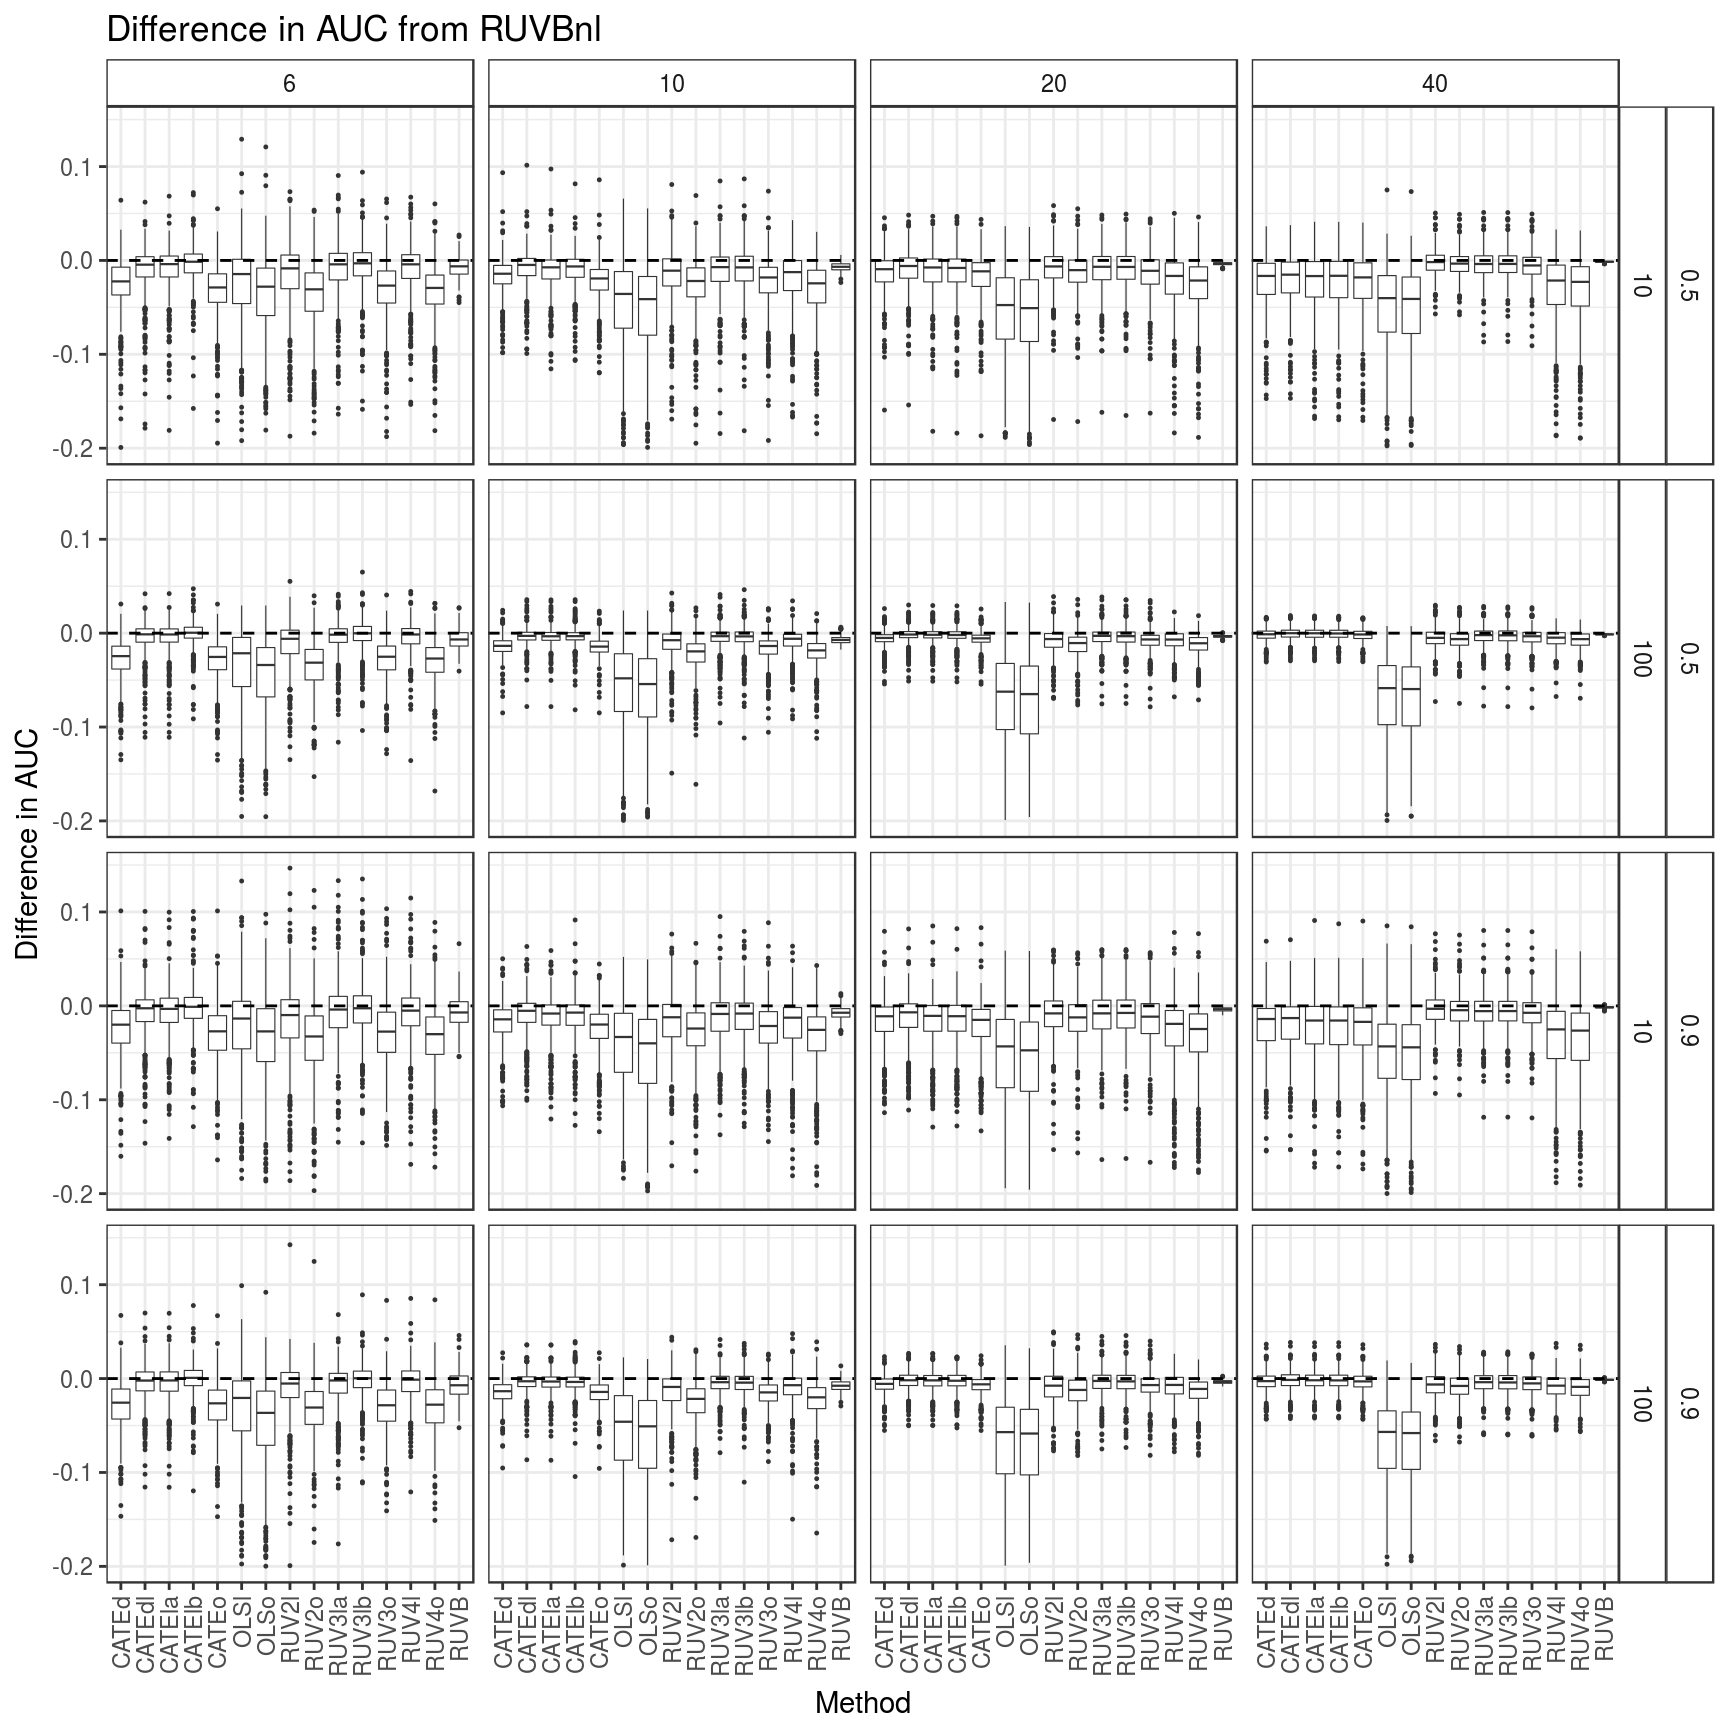
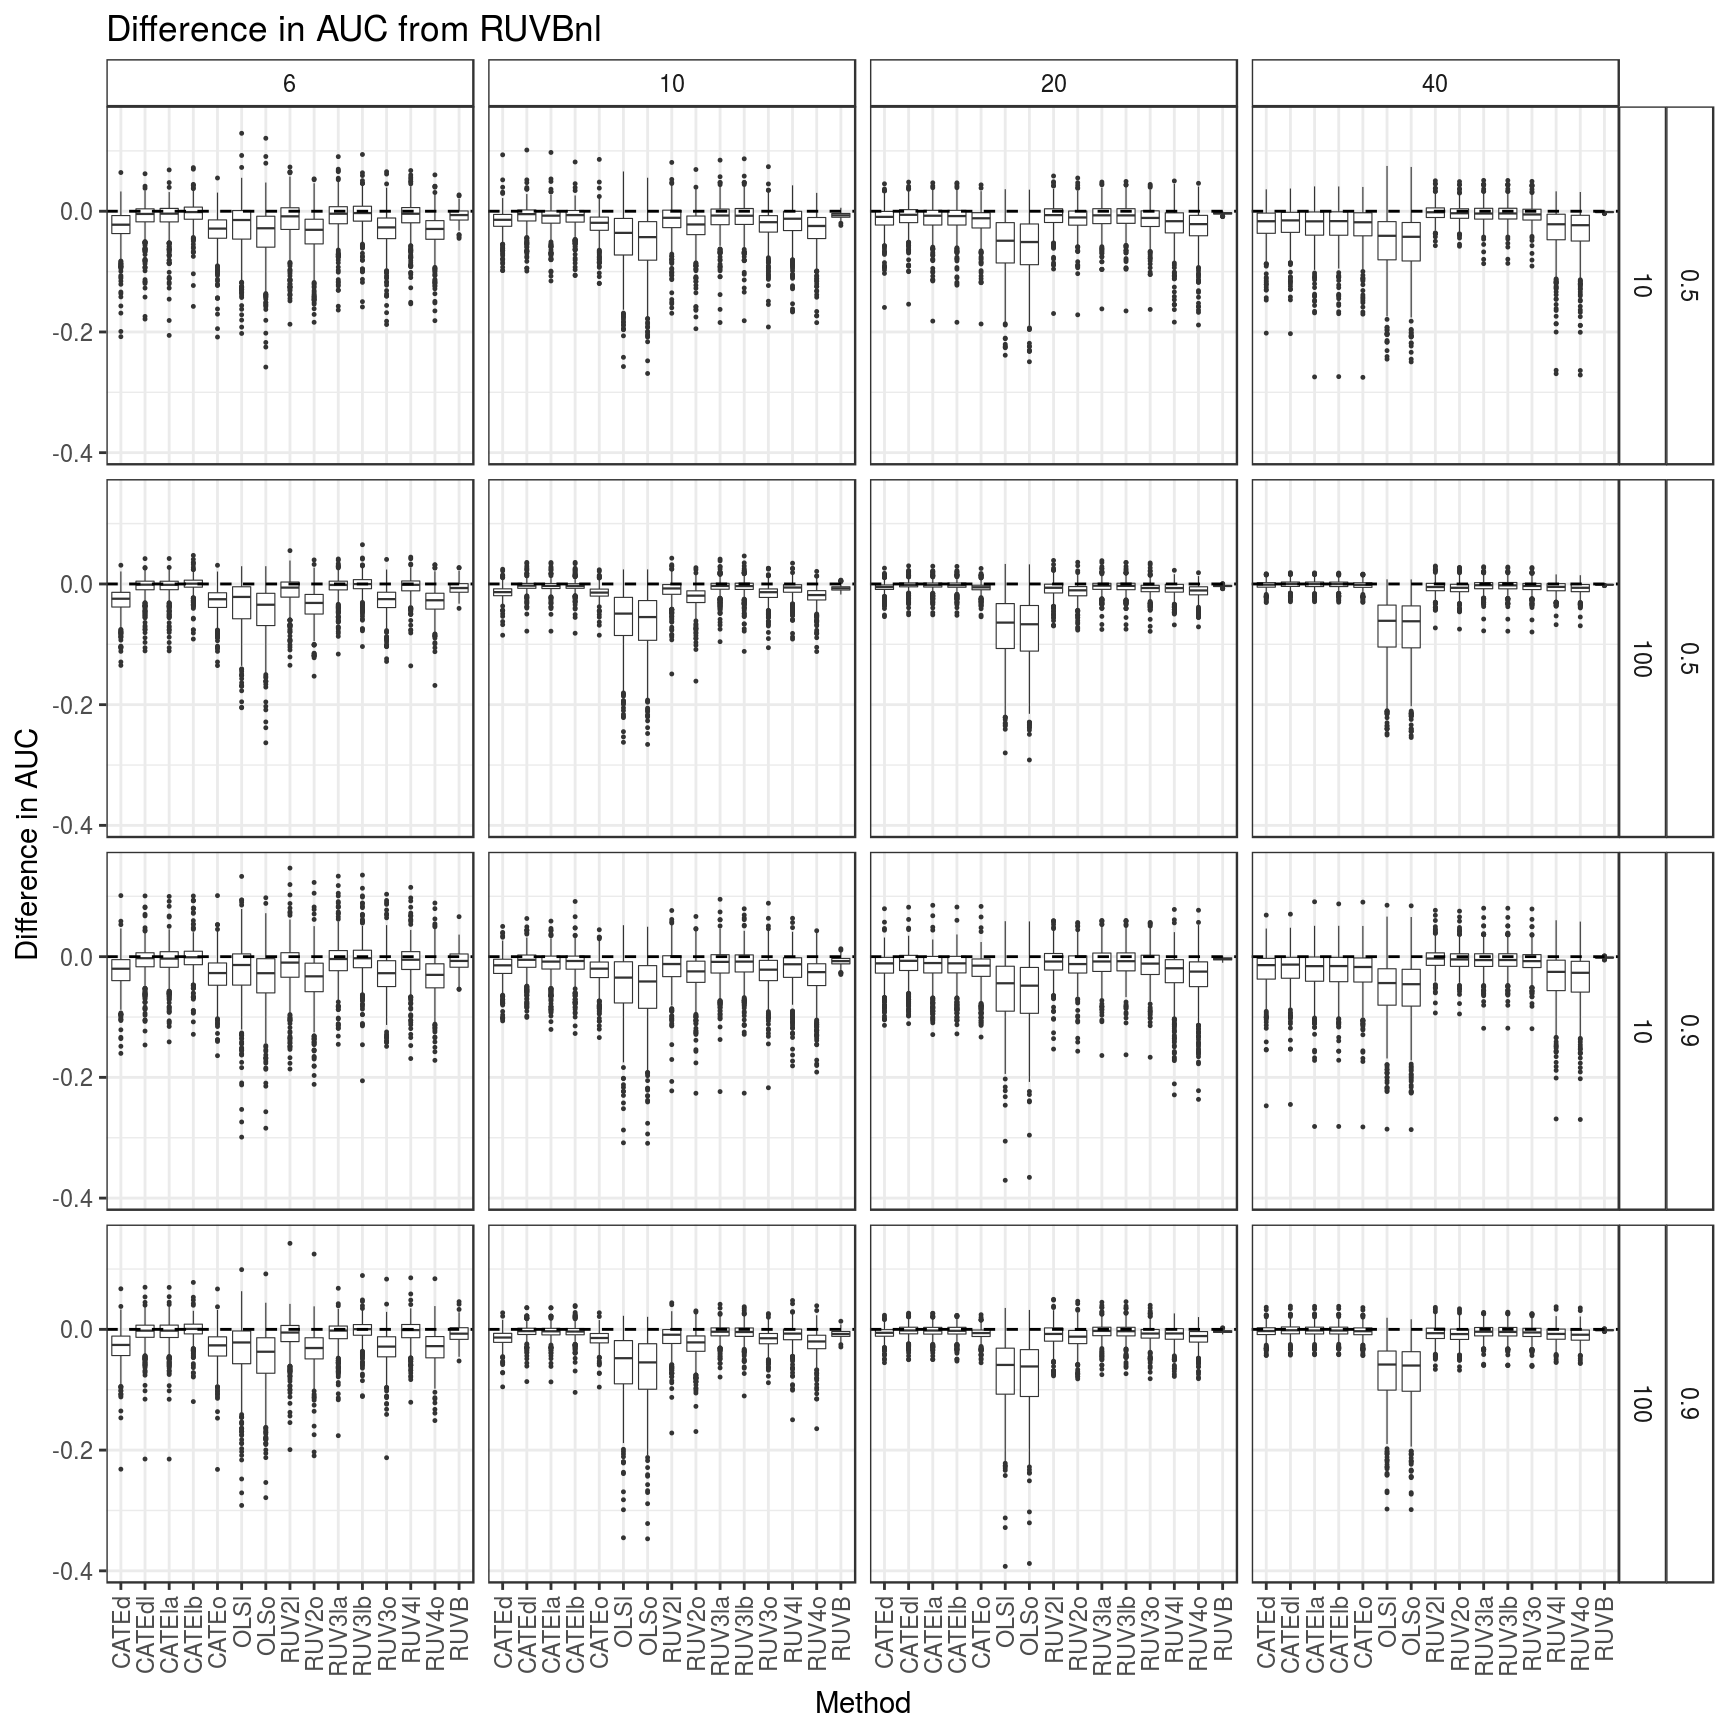
mad not invariant.

diff --git a/docs/mad_not_equivariant.html b/docs/mad_not_equivariant.html
@@ -9,9 +9,10 @@
 <meta name="generator" content="pandoc" />
 
 
+<meta name="author" content="David Gerard" />
 
 
-<title>Home</title>
+<title>square root of MAD of square is not MAD</title>
 
 <script src="site_libs/jquery-1.11.3/jquery.min.js"></script>
 <meta name="viewport" content="width=device-width, initial-scale=1" />
@@ -19,6 +20,9 @@
 <script src="site_libs/bootstrap-3.3.5/js/bootstrap.min.js"></script>
 <script src="site_libs/bootstrap-3.3.5/shim/html5shiv.min.js"></script>
 <script src="site_libs/bootstrap-3.3.5/shim/respond.min.js"></script>
+<script src="site_libs/jqueryui-1.11.4/jquery-ui.min.js"></script>
+<link href="site_libs/tocify-1.9.1/jquery.tocify.css" rel="stylesheet" />
+<script src="site_libs/tocify-1.9.1/jquery.tocify.js"></script>
 <script src="site_libs/navigation-1.1/tabsets.js"></script>
 <link href="site_libs/highlightjs-1.1/textmate.css" rel="stylesheet" />
 <script src="site_libs/highlightjs-1.1/highlight.js"></script>
@@ -162,6 +166,101 @@ $(document).ready(function () {
 
 
 
+<script>
+$(document).ready(function ()  {
+
+    // move toc-ignore selectors from section div to header
+    $('div.section.toc-ignore')
+        .removeClass('toc-ignore')
+        .children('h1,h2,h3,h4,h5').addClass('toc-ignore');
+
+    // establish options
+    var options = {
+      selectors: "h1,h2,h3",
+      theme: "bootstrap3",
+      context: '.toc-content',
+      hashGenerator: function (text) {
+        return text.replace(/[.\\/?&!#<>]/g, '').replace(/\s/g, '_').toLowerCase();
+      },
+      ignoreSelector: ".toc-ignore",
+      scrollTo: 0
+    };
+    options.showAndHide = true;
+    options.smoothScroll = true;
+
+    // tocify
+    var toc = $("#TOC").tocify(options).data("toc-tocify");
+});
+</script>
+
+<style type="text/css">
+
+#TOC {
+  margin: 25px 0px 20px 0px;
+}
+@media (max-width: 768px) {
+#TOC {
+  position: relative;
+  width: 100%;
+}
+}
+
+
+.toc-content {
+  padding-left: 30px;
+  padding-right: 40px;
+}
+
+div.main-container {
+  max-width: 1200px;
+}
+
+div.tocify {
+  width: 20%;
+  max-width: 260px;
+  max-height: 85%;
+}
+
+@media (min-width: 768px) and (max-width: 991px) {
+  div.tocify {
+    width: 25%;
+  }
+}
+
+@media (max-width: 767px) {
+  div.tocify {
+    width: 100%;
+    max-width: none;
+  }
+}
+
+.tocify ul, .tocify li {
+  line-height: 20px;
+}
+
+.tocify-subheader .tocify-item {
+  font-size: 0.90em;
+  padding-left: 25px;
+  text-indent: 0;
+}
+
+.tocify .list-group-item {
+  border-radius: 0px;
+}
+
+
+</style>
+
+<!-- setup 3col/9col grid for toc_float and main content  -->
+<div class="row-fluid">
+<div class="col-xs-12 col-sm-4 col-md-3">
+<div id="TOC" class="tocify">
+</div>
+</div>
+
+<div class="toc-content col-xs-12 col-sm-8 col-md-9">
+
+
 
 
 <div class="navbar navbar-default  navbar-fixed-top" role="navigation">
@@ -202,40 +301,19 @@ $(document).ready(function () {
 
 
 
-<h1 class="title toc-ignore">Home</h1>
+<h1 class="title toc-ignore">square root of MAD of square is not MAD</h1>
+<h4 class="author"><em>David Gerard</em></h4>
+<h4 class="date"><em>May 2, 2017</em></h4>
 
 </div>
 
 
-<div id="simulations" class="section level2">
-<h2>Simulations</h2>
-<ul>
-<li><a href="ruvb_plus_ash.html">RUVB Plus ASH Analysis</a>: I ran all the confounder adjustment methods when the true <span class="math inline">\(\pi0\)</span> is 0.9. Signal was added by poisson thinning. I then ran either ASH or qvalue on the resulting estimated effect sizes and their corresponding standard errors. Except for MOUTHWASH and BACKWASH, RUVB does the best.</li>
-<li><a href="ruvb_lfsr.html">Look at Calibration of LFDR/LFSR’s</a> MOUTHWASH is awesome. RUVB + ASH is awesome. RUVB by itself is not so awesome.</li>
-<li><a href="compare_dg_seqgendiff.html">Consistancy between seqgendiff and datamaker.R</a></li>
-<li><a href="initial_pvalue_eda.html">Recapitulate AUC plots from paper using the output from seqgendiff.</a></li>
-<li><a href="fdr_control.html">Explore average FDR control of various methods</a></li>
-<li><a href="fdp_variability.html">Explore variability of FDR control of various methods</a></li>
-<li><a href="coverage_variance.html">Explore variability in coverage results</a>. Don’t see anything different here from what I have been seeing. Though it might be a little more clear.</li>
-<li><a href="vicar_t.html">When simulating under the assumed model, MOUTHWASH usually returns variance inflation factors less than 1.</a></li>
-<li><a href="var_code.html">CATE does not adjust for df. This makes its variances very small for small sample sizes</a>. Here, I also show equivalence between vicar’s functions and cate and RUV4’s functions.</li>
-<li><a href="limma_shrink.html">Limma is scale-equivariant, recalculate limma-shrunk variances in RUV4 using three different approaches</a></li>
-</ul>
-</div>
-<div id="paper-plots" class="section level1">
-<h1>Paper Plots</h1>
-<ul>
-<li><a href="ruvb_paper_plots.html">AUC plot seems entirely done</a>.</li>
-<li><a href="ruvb_paper_plots_coverage.html">Coverage plot needs more work</a>. In particular, I am afraid that I coded up the “c” methods incorrectly. I need to double check them.</li>
-<li><a href="check_c_inflation.html">Small difference between Gagnon-Bartsch variance inflation and my variance inflation</a>. When I use the maximum-likelihood approach, this results in a small multiplicative difference that basically amounts to using <code>solve(crossprod(X))</code> vs <code>solve(crossprod(cbind(X, Z)))</code>.</li>
-<li><a href="coverage_try_2.html">Coverage plots looking at losses &lt; 0.9 or &gt; 0.975</a>. RUVB is relatively stable under both losses and over all scenarios. This is not true of any other method.</li>
-<li><a href="ruvb_vs_all_boxplots.html">With lots of boxplots, narrowed down best methods to RUVB, RUVBnn, RUV2, RUV2l, RUV3o, and RUV3la</a>. Other possibilities are CATEd and CATEdl.</li>
-<li><a href="ruvb_vs_all_lossplots.html">Loss plots show same favorites as above.</a></li>
-<li><a href="ruvb_in_depth_best_methods.html">Boxplots, loss plots, and median plots of just the best methods</a>. RUVB does best in terms of median coverage and for larger sample sizes it seems that RUVB might also do better when there are more control genes, but I need to test this.</li>
-<li><a href="ruvb_loss_boot.html">Bootstrap confidence intervals for the losses.</a> These are mixed results. Basically, it says that one should only use either RUVB or RUV2. Though, I think this is fine since RUV2 has much worse AUC.</li>
-<li><a href="mad_not_equivariant.html">MAD is not invariant</a>.</li>
-</ul>
-</div>
+<p>The mad is not invariant.</p>
+<pre class="r"><code>temp &lt;- rnorm(100)
+mad(temp, center = 0)</code></pre>
+<pre><code>## [1] 1.06</code></pre>
+<pre class="r"><code>sqrt(mad(temp ^ 2, center = 0))</code></pre>
+<pre><code>## [1] 0.8709</code></pre>
 
 <hr>
 <p>
@@ -263,6 +341,8 @@ $(document).ready(function () {
 -->
 
 
+</div>
+</div>
 
 </div>
 

diff --git a/docs/ruvb_paper_plots.html b/docs/ruvb_paper_plots.html
@@ -11,7 +11,7 @@
 
 <meta name="author" content="David Gerard" />
 
-<meta name="date" content="2017-04-27" />
+<meta name="date" content="2017-05-02" />
 
 <title>AUC Plot in RUVB Paper</title>
 
@@ -304,7 +304,7 @@ div.tocify {
 
 <h1 class="title toc-ignore">AUC Plot in RUVB Paper</h1>
 <h4 class="author"><em>David Gerard</em></h4>
-<h4 class="date"><em>2017-04-27</em></h4>
+<h4 class="date"><em>2017-05-02</em></h4>
 
 </div>
 
@@ -329,7 +329,8 @@ shared across the workflowr files. -->
 <p>I estimate the variances with the mean methods in different combinations. The key for this is:</p>
 <ul>
 <li>o = Original.</li>
-<li>n = Normal or <span class="math inline">\(t\)</span> approximation for the likelihood in RUVB.</li>
+<li>n = <span class="math inline">\(t\)</span> approximation for the likelihood in RUVB.</li>
+<li>nn = normal approximation for the likelihood in RUVB.</li>
 <li>m = MAD variance inflation.</li>
 <li>c = control-gene calibrated.</li>
 <li>l = Limma-adjusted.</li>
@@ -356,7 +357,7 @@ shared across the workflowr files. -->
 <li>RUV3o, RUV3c, RUV3m,</li>
 <li>RUV3la, RUV3lac, RUV3lam,</li>
 <li>RUV3lb, RUV3lbc, RUV3lbm,</li>
-<li>RUVB, RUVBn</li>
+<li>RUVB, RUVBn, RUVnn</li>
 <li>RUVBnl</li>
 </ul>
 <p>It turns out that RUVBnl always has the highest (mean/median) AUC, particularly when there are only 10 control genes (as opposed to 100). The hard part will then be making a plot appropriate for the paper.</p>
@@ -385,8 +386,8 @@ aucdat &lt;- read_csv(file = &quot;../../reproduce_ruv3/Output/sims_out/auc_mat2
 right_vals &lt;- str_replace(str_extract(names(aucdat)[-(1:5)], &quot;_.+$&quot;), &quot;_&quot;, &quot;&quot;)
 name_vec &lt;- c(&quot;Seed&quot;, &quot;Pi0&quot;, &quot;SampleSize&quot;, &quot;NControls&quot;, &quot;Poisthin&quot;,
               paste0(left_vals, right_vals))
-name_vec[(length(name_vec) - 2):length(name_vec)] &lt;- 
-  paste0(&quot;RUVB&quot;, stringr::str_replace(string = names(aucdat)[(length(name_vec) - 2):length(name_vec)],
+name_vec[(length(name_vec) - 3):length(name_vec)] &lt;- 
+  paste0(&quot;RUVB&quot;, stringr::str_replace(string = names(aucdat)[(length(name_vec) - 3):length(name_vec)],
                                       pattern = &quot;(ruvb)(.*+)&quot;, replace = &quot;\\2&quot;))
 names(aucdat) &lt;- name_vec
 
@@ -405,12 +406,11 @@ p &lt;- ggplot(data = longdat, mapping = aes(y = AUC, x = Method)) +
   facet_grid(Pi0 + NControls ~ SampleSize) +
   geom_hline(yintercept = 0, lty = 2) +
   xlab(&quot;Method&quot;) + ylab(&quot;Difference in AUC&quot;) +
-  ylim(-0.2, max(longdat$AUC)) +
+  #ylim(-0.2, max(longdat$AUC)) +
   theme_bw() + theme(axis.text.x = element_text(angle = 90, hjust = 1, vjust = 0.5)) +
   theme(strip.background = element_rect(fill=&quot;white&quot;)) +
   ggtitle(&quot;Difference in AUC from RUVBnl&quot;)
 print(p)</code></pre>
-<pre><code>## Warning: Removed 360 rows containing non-finite values (stat_boxplot).</code></pre>
 <p><img src="ruvb_paper_plots_files/figure-html/unnamed-chunk-1-1.png" width="864" /></p>
 <p>The “non-finite” values just results because I put a minimum value of -0.2 on the y-limits.</p>
 <p>I can simplify the above plot by just showing the median.</p>
